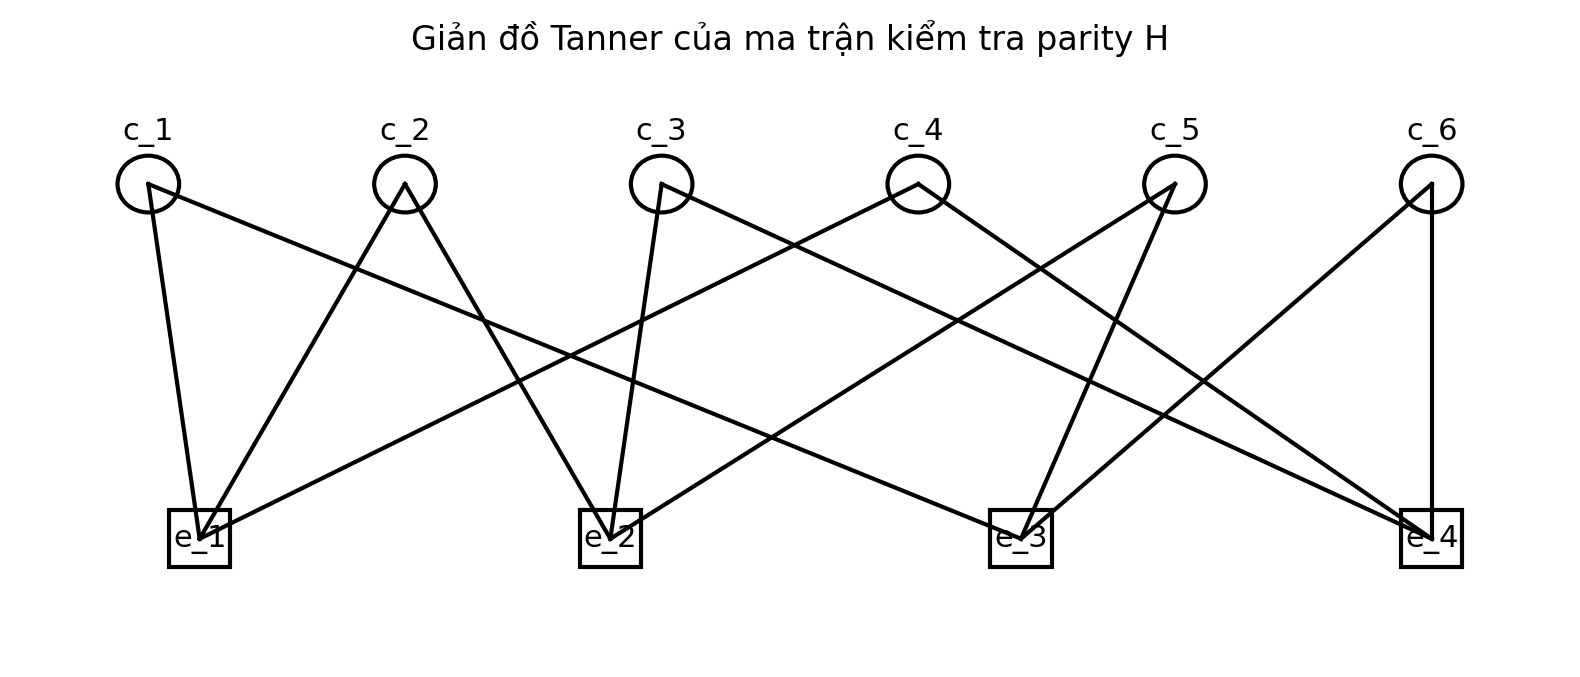
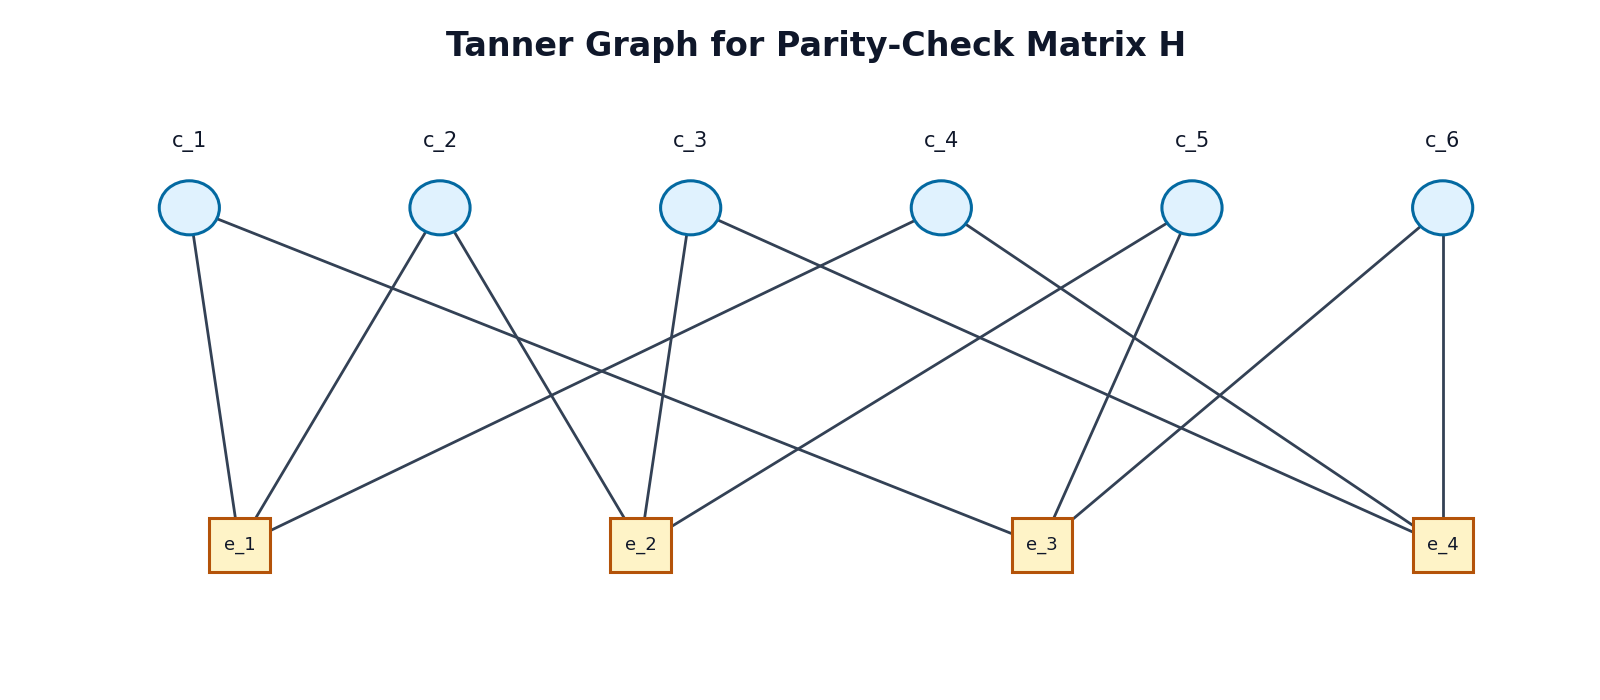
docs: add verified communications result gallery

diff --git a/scripts/render_tanner_ldpc.py b/scripts/render_tanner_ldpc.py
@@ -1,0 +1,99 @@
+"""Render the Project 4 Tanner graph with ASCII-safe English labels."""
+
+from pathlib import Path
+
+import matplotlib.pyplot as plt
+from matplotlib.patches import Circle, Rectangle
+
+
+H = (
+    (1, 1, 0, 1, 0, 0),
+    (0, 1, 1, 0, 1, 0),
+    (1, 0, 0, 0, 1, 1),
+    (0, 0, 1, 1, 0, 1),
+)
+
+VARIABLE_X = (1, 2, 3, 4, 5, 6)
+CHECK_X = (1.2, 2.8, 4.4, 6.0)
+VARIABLE_Y = 2.0
+CHECK_Y = 0.5
+
+
+def render(output: Path) -> None:
+    fig, ax = plt.subplots(figsize=(16, 7), dpi=100)
+    fig.patch.set_facecolor("white")
+    ax.set_facecolor("white")
+
+    for check_index, row in enumerate(H):
+        for variable_index, connected in enumerate(row):
+            if connected:
+                ax.plot(
+                    (VARIABLE_X[variable_index], CHECK_X[check_index]),
+                    (VARIABLE_Y, CHECK_Y),
+                    color="#334155",
+                    linewidth=2.0,
+                    zorder=1,
+                )
+
+    for index, x_value in enumerate(VARIABLE_X, start=1):
+        ax.add_patch(
+            Circle(
+                (x_value, VARIABLE_Y),
+                0.12,
+                facecolor="#e0f2fe",
+                edgecolor="#0369a1",
+                linewidth=2.2,
+                zorder=2,
+            )
+        )
+        ax.text(
+            x_value,
+            VARIABLE_Y + 0.25,
+            f"c_{index}",
+            ha="center",
+            va="bottom",
+            fontsize=15,
+            color="#0f172a",
+        )
+
+    for index, x_value in enumerate(CHECK_X, start=1):
+        ax.add_patch(
+            Rectangle(
+                (x_value - 0.12, CHECK_Y - 0.12),
+                0.24,
+                0.24,
+                facecolor="#fef3c7",
+                edgecolor="#b45309",
+                linewidth=2.2,
+                zorder=2,
+            )
+        )
+        ax.text(
+            x_value,
+            CHECK_Y,
+            f"e_{index}",
+            ha="center",
+            va="center",
+            fontsize=13,
+            color="#0f172a",
+            zorder=3,
+        )
+
+    ax.set_title(
+        "Tanner Graph for Parity-Check Matrix H",
+        fontsize=24,
+        weight="semibold",
+        color="#0f172a",
+        pad=20,
+    )
+    ax.set_xlim(0.5, 6.5)
+    ax.set_ylim(0.0, 2.55)
+    ax.axis("off")
+    fig.subplots_adjust(left=0.04, right=0.98, top=0.88, bottom=0.06)
+    fig.savefig(output, dpi=100, facecolor="white")
+    plt.close(fig)
+
+
+if __name__ == "__main__":
+    repository = Path(__file__).resolve().parents[1]
+    render(repository / "Nhom5_DoAnTTS" / "Project4" / "tanner_ldpc.png")

diff --git a/README.md b/README.md
@@ -47,6 +47,19 @@
 | Speech companding | Uniform quantization, mu-law compression/expansion, A-law compression/expansion and SNR comparison |
 | LDPC basics | Tanner graph construction, parity-check matrix reasoning and bit-flipping decoding |
 
+## Result gallery
+
+<table>
+  <tr>
+    <td width="50%"><img src="Nhom5_DoAnTTS/Project1/project1_uniform.png" alt="Speech waveform and uniform quantization result" width="100%" /><br /><sub>Uniform quantization of the speech sample.</sub></td>
+    <td width="50%"><img src="Nhom5_DoAnTTS/Project1/project1_mu.png" alt="Mu-law compression quantization and expansion" width="100%" /><br /><sub>Mu-law compression, quantization, and expansion.</sub></td>
+  </tr>
+  <tr>
+    <td width="50%"><img src="Nhom5_DoAnTTS/Project1/project1_a.png" alt="A-law compression quantization and expansion" width="100%" /><br /><sub>A-law compression, quantization, and expansion.</sub></td>
+    <td width="50%"><img src="Nhom5_DoAnTTS/Project4/tanner_ldpc.png" alt="Tanner graph for the LDPC parity-check matrix" width="100%" /><br /><sub>Tanner graph generated from the checked-in parity-check matrix.</sub></td>
+  </tr>
+</table>
+
 ## Repository Structure
 
 | Path | Purpose |
@@ -100,6 +113,22 @@ This is an academic digital communications repository. It demonstrates MATLAB mo
 ## Portfolio Context
 
 Luong Hai Long uses this repository as telecommunications evidence within a broader engineering portfolio that also includes computer vision, AI/ML, embedded systems, FPGA/SoC and firmware projects. This repository is strongest as proof of digital communications fundamentals: AWGN analysis, matched filtering, BER reasoning, passband modulation and coding-theory exercises.
+
+<details>
+<summary>Contact and professional links</summary>
+
+| Channel | Link |
+|---|---|
+| GitHub | [lhlizdabezt](https://github.com/lhlizdabezt) |
+| LinkedIn | [linkedin.com/in/lhlizdabezt](https://www.linkedin.com/in/lhlizdabezt) |
+| Facebook | [facebook.com/wageseadrake](https://www.facebook.com/wageseadrake) |
+| Instagram | [instagram.com/lhlizdabezt](https://www.instagram.com/lhlizdabezt) |
+| YouTube | [youtube.com/@lhlizdabezt](https://www.youtube.com/@lhlizdabezt) |
+| TikTok | [tiktok.com/@wageseadrake](https://www.tiktok.com/@wageseadrake) |
+| Email | [22207056@student.hcmus.edu.vn](mailto:22207056@student.hcmus.edu.vn), [luonghailong.work@gmail.com](mailto:luonghailong.work@gmail.com) |
+| Phone | [+84 988 114 708](tel:+84988114708) |
+
+</details>
 
 ## Visual Asset Policy
 

diff --git a/RELEASE_NOTES.md b/RELEASE_NOTES.md
@@ -1,17 +1,20 @@
-# English Portfolio Quality Pass - 2026-06-02
-
-## Scope
-
-This update tightens `TruyenThongSo` for English-facing GitHub portfolio review. It focuses on reviewer guidance, SVG safety, MATLAB text cleanup and release-backed evidence.
+# v1.2.1 - Visual Evidence Refresh
 
 ## Changes
 
-- Rewrote `README.md` as a complete English reviewer guide with technical coverage, repository map, run instructions, suggested review order, scope boundaries and release notes.
-- Replaced both SVG visuals with line-free layouts. The new assets avoid animated dashed lines, dotted routes and curved connector lines so text is not placed behind moving graphics.
-- Kept all SVG text English and ASCII-safe to avoid mojibake in GitHub rendering.
-- Cleaned editable MATLAB comments and console output in the LDPC and companding project files from Vietnamese or mojibake text into English.
-- Preserved the original report PDFs, slide PDF, zip snapshots, audio sample and generated figures as evidence artifacts.
+- Added a four-image results gallery for uniform quantization, mu-law, A-law, and the LDPC Tanner graph.
+- Regenerated the Tanner graph with English labels from the parity-check matrix used by the MATLAB source.
+- Added a reproducible Python renderer for future label and spacing corrections.
+- Added the complete contact and professional-link block without adding a project-level profile-view counter.
+- Preserved MATLAB scripts, report PDFs, slide PDF, audio input, generated figures, and original coursework archives.
 
-## Review Context
+## Verification
 
-This repository remains an academic digital communications project. The strongest evidence is MATLAB modelling for AWGN, matched filtering, BER analysis, BASK/BPSK/BFSK/QPSK, companding and LDPC decoding, supported by reports and versioned releases.
+- Generated image labels and README captions were checked in US English.
+- README local links and visual references were checked against tracked files.
+- MATLAB source was reviewed statically; MATLAB execution was not available in the current environment.
+- SVG assets were rendered and checked for ASCII safety, clipping, and connector-line interference.
+
+## Boundary
+
+This is academic MATLAB coursework. It demonstrates simulation and report evidence, not a production modem or deployed telecommunications system.
